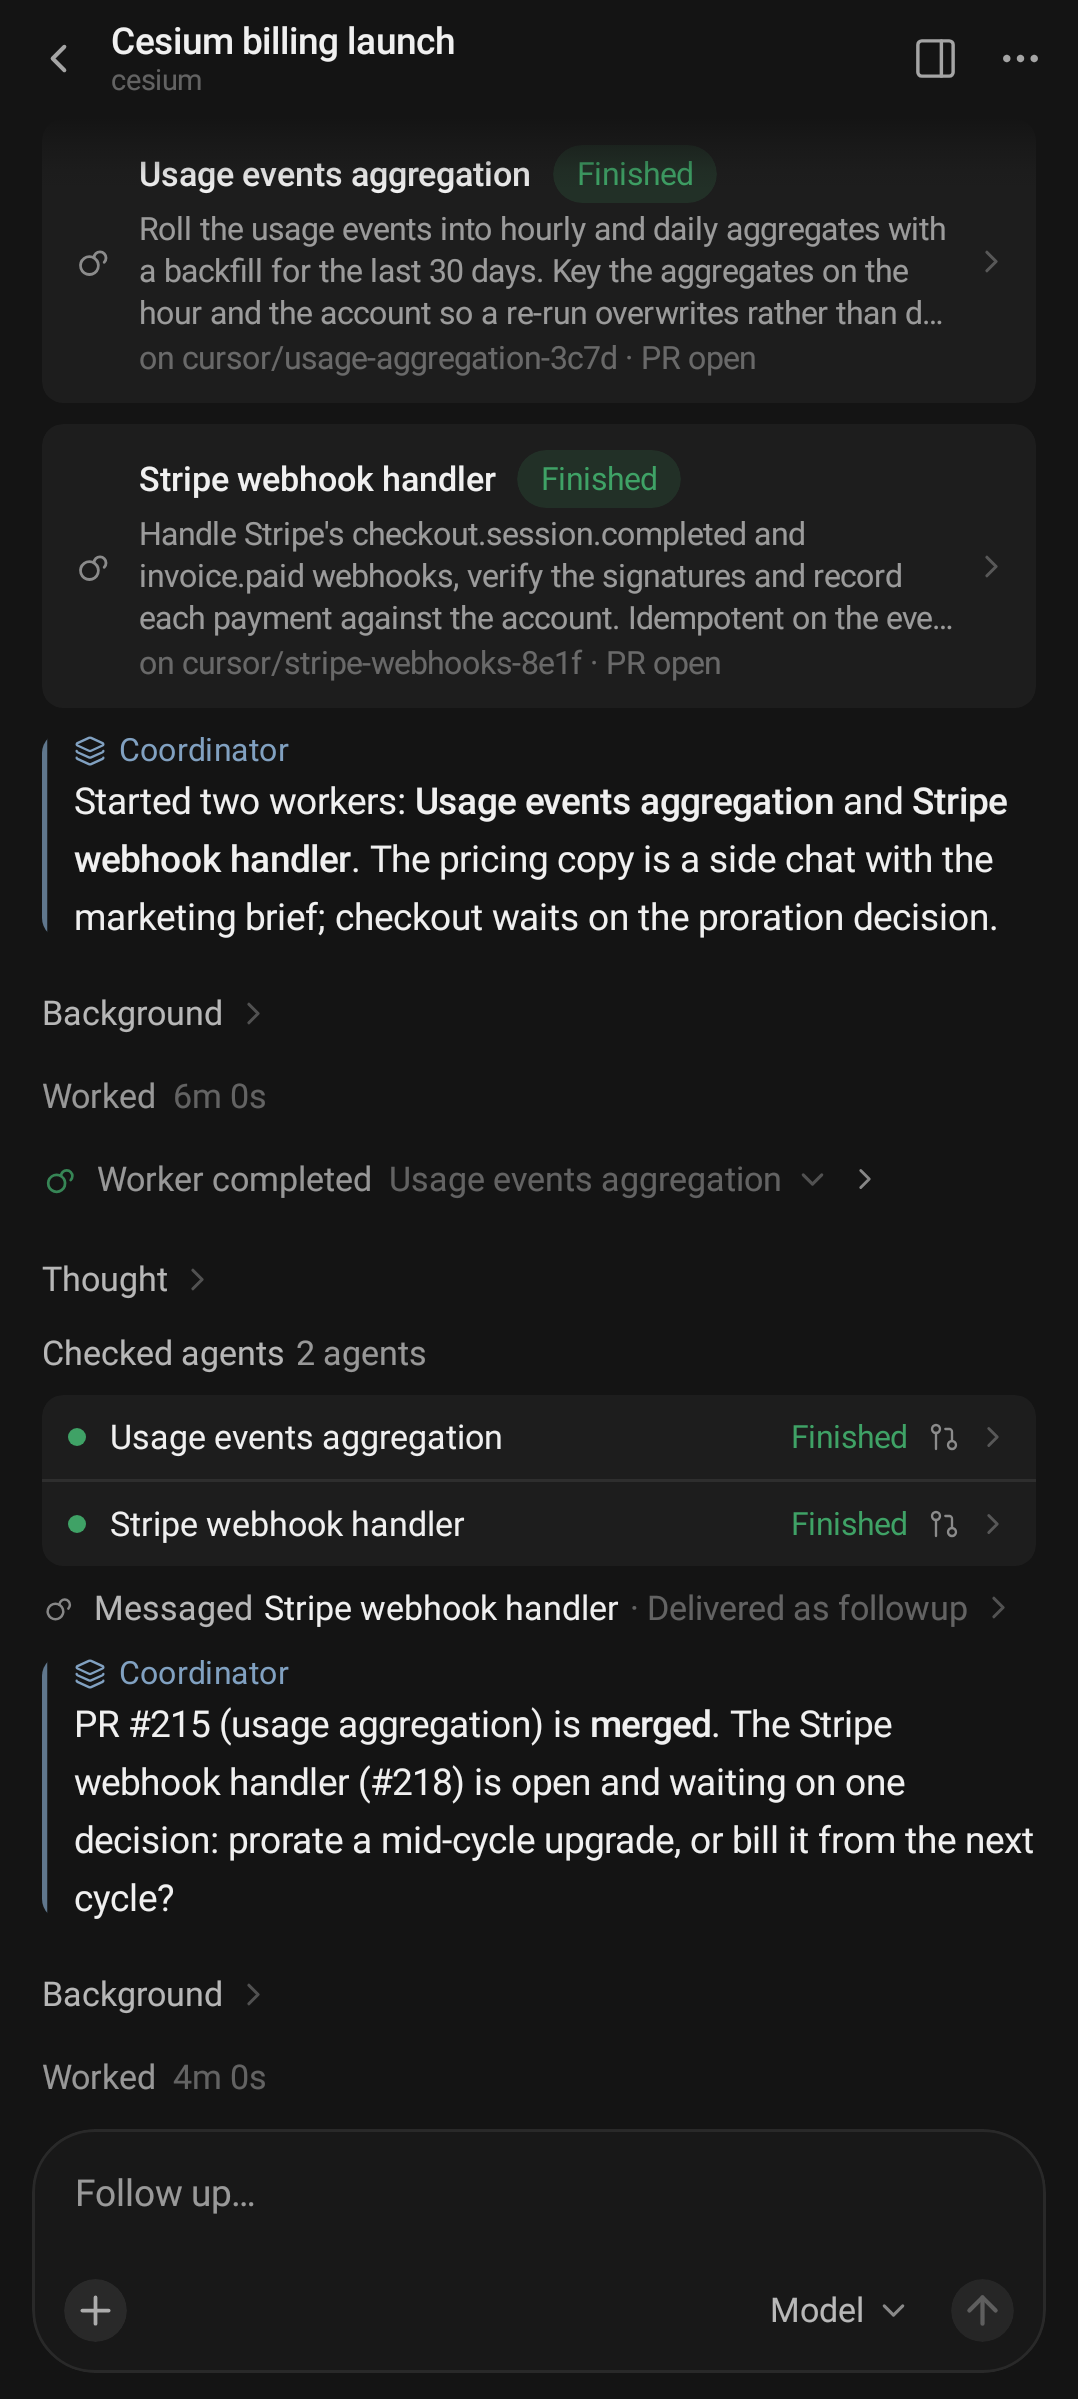
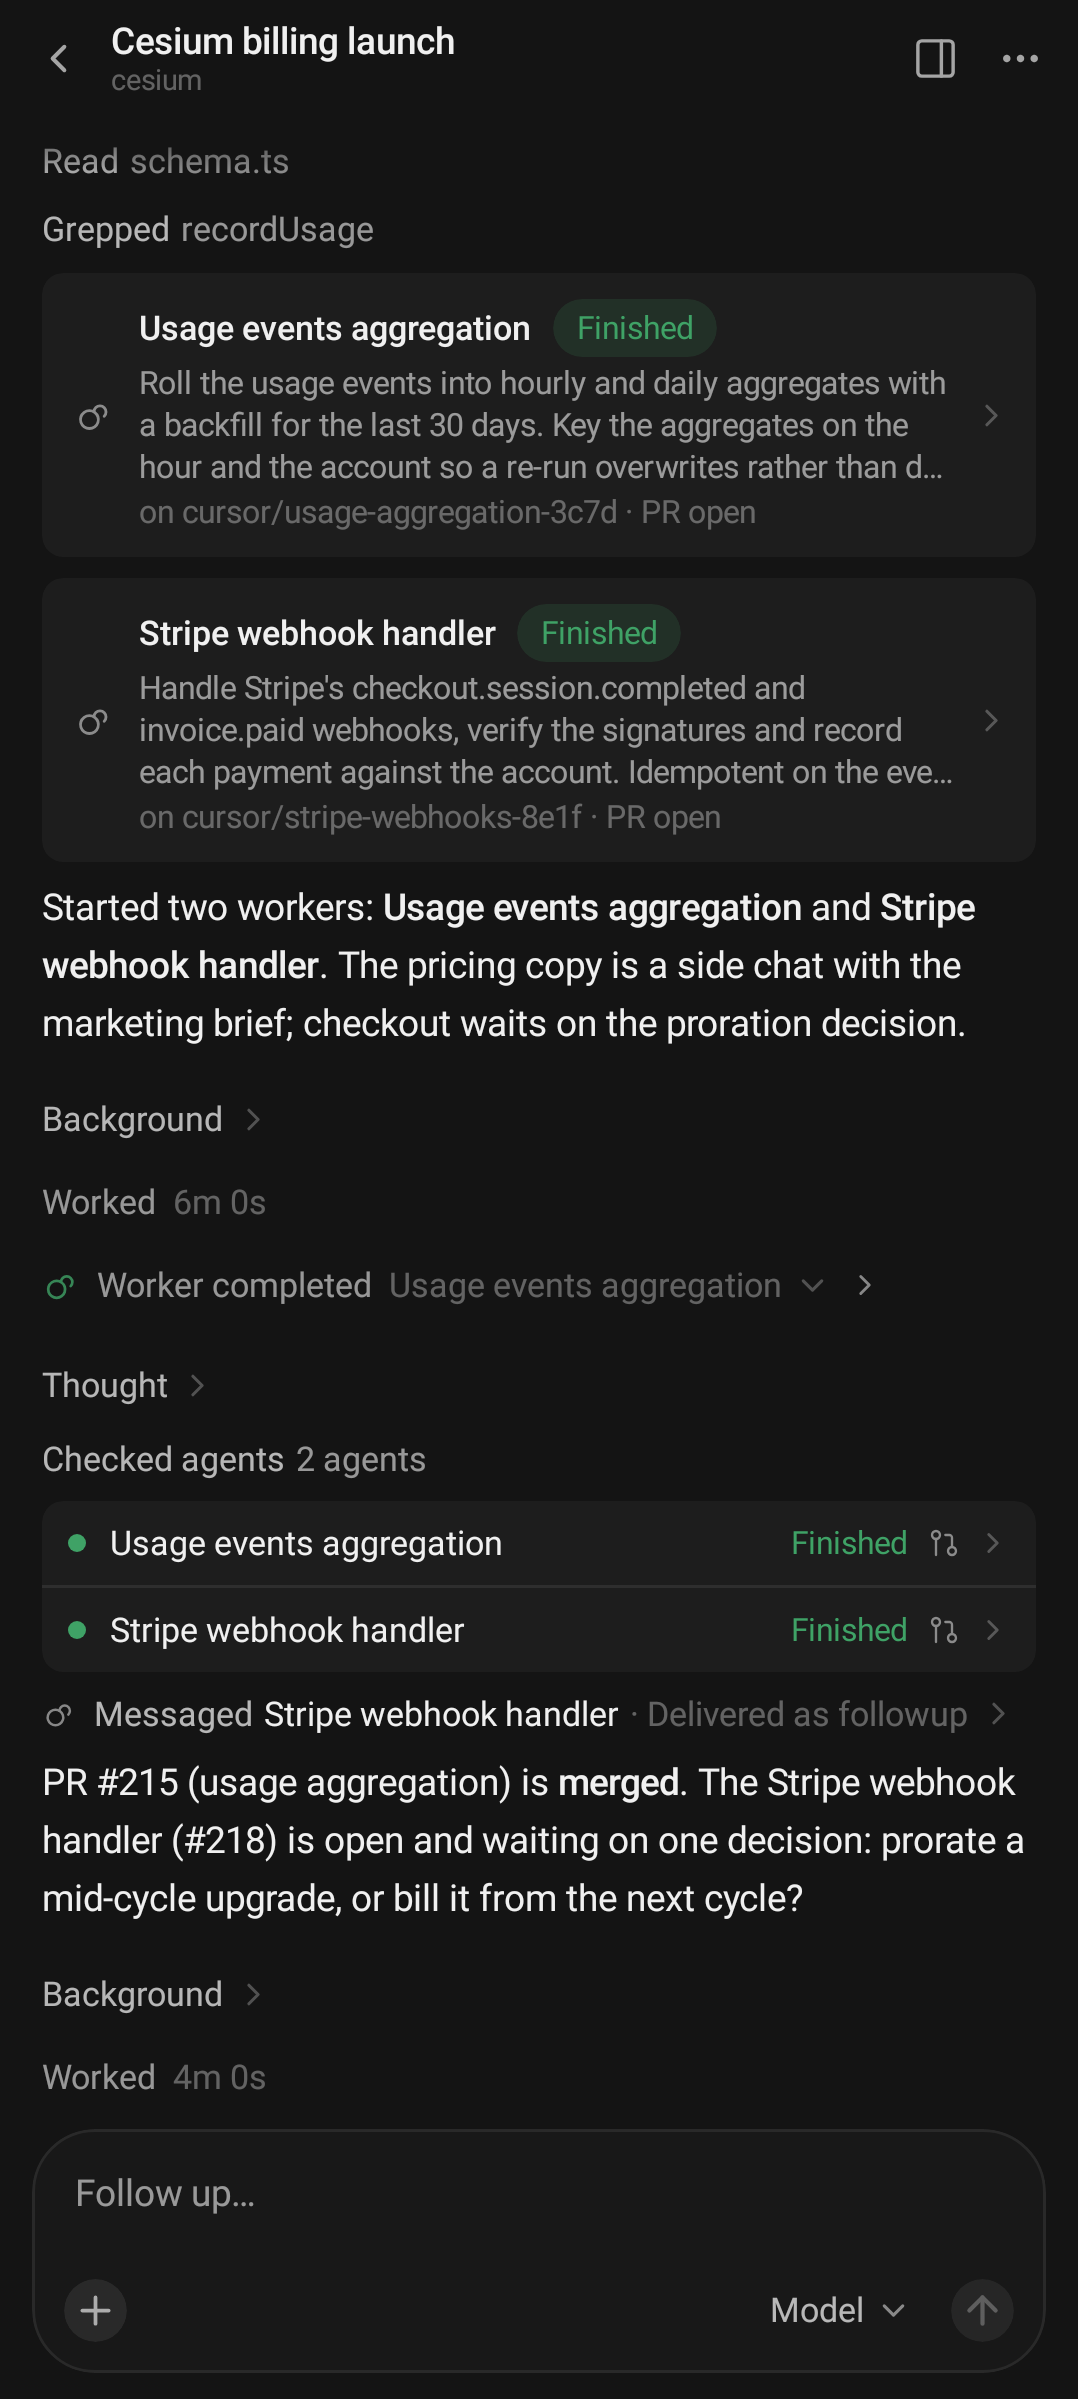
A coordinator's SendMessage update is a plain reply: no rule, no label, no glyph
In a Project's chat the coordinator's SendMessage updates are the replies, so they now read exactly as any
agent's reply does - the same prose, typography, spacing and markdown, through the one view both use - with
nothing to set them apart: the blue rule, the "Coordinator" label and the stack glyph are gone. A message whose
body did not reach the device still says so, dimmed, in the reply's place. Everything else stands: the notes
under Background, worker cards, status rows, the hidden instructions. Screenshots 39 and 61 re-recorded.

diff --git a/app/src/main/java/com/cursorforandroid/ui/conversation/CoordinatorContent.kt b/app/src/main/java/com/cursorforandroid/ui/conversation/CoordinatorContent.kt
@@ -25,9 +25,6 @@ import androidx.compose.runtime.setValue
 import androidx.compose.ui.Alignment
 import androidx.compose.ui.Modifier
 import androidx.compose.ui.draw.clip
-import androidx.compose.ui.draw.drawBehind
-import androidx.compose.ui.geometry.CornerRadius
-import androidx.compose.ui.geometry.Size
 import androidx.compose.ui.draw.rotate
 import androidx.compose.ui.graphics.Color
 import androidx.compose.ui.platform.testTag
@@ -35,7 +32,6 @@ import androidx.compose.ui.semantics.contentDescription
 import androidx.compose.ui.semantics.semantics
 import androidx.compose.ui.text.style.TextOverflow
 import androidx.compose.ui.unit.dp
-import androidx.compose.ui.unit.sp
 import com.cursorforandroid.domain.Agent
 import com.cursorforandroid.domain.RunStatus
 import com.cursorforandroid.domain.ToolCall
@@ -57,7 +53,7 @@ import com.cursorforandroid.ui.theme.CursorTheme
  * "Created agent", "Sent message" with nothing to open. Here each is first-class: a card per worker created, naming
  * it and saying where it stands (live, from the list's row, once the worker is loaded here) that opens its
  * conversation; a row per worker in a status check; a compact row for a message or a stop, opening onto the message;
- * and the coordinator's own words to the user as a message in its voice, set apart from an agent's reply.
+ * and the coordinator's own words to the user as a plain reply, exactly as any agent's reads.
  */
 @Composable
 internal fun CoordinatorStep(call: ToolCall, modifier: Modifier = Modifier): Boolean {
@@ -301,50 +297,24 @@ internal fun WorkerActionRow(call: ToolCall, action: ToolPayload.WorkerAction, m
 }
 
 /**
- * The coordinator speaking to the user (`send_to_user`), in a voice of its own: not a reply's bare prose and not the
- * user's bubble, but a message set behind a coloured rule with "Coordinator" over it, so a Project's transcript
- * tells the coordinator's words from a worker's report and from the agent's own thinking aloud. Press and hold for
- * the same actions as any message.
+ * The coordinator speaking to the user through `SendMessage` (or the older `send_to_user`): its reply, and so shown
+ * exactly as any agent's reply is — the same prose, typography, spacing and markdown as [ReplyMessage], with no
+ * rule, label or glyph to set it apart. In a Project's chat the coordinator's own words *are* the replies; what it
+ * writes between tool calls is folded under "Background". Press and hold for the same actions as any message.
  */
 @Composable
 internal fun CoordinatorMessageView(call: ToolCall, payload: ToolPayload.CoordinatorMessage, modifier: Modifier = Modifier) {
     val colors = CursorTheme.colors
-    val type = CursorTheme.typography
-    val accent = colors.blue
-    // A message whose body this copy lacks (the stream left it out, or an earlier build did): the row says so in
-    // the coordinator's voice rather than standing bare, until the turn is asked for again.
-    val body = payload.message.trim().ifEmpty { if (payload.missing) MISSING_MESSAGE else "" }
-    MessageActions(text = payload.message, enabled = payload.message.isNotBlank(), modifier = modifier.fillMaxWidth().clip(CursorTheme.shapes.lg)) {
-        // The rule is drawn, not laid out: the message's blocks measure by subcomposition, which an intrinsic
-        // height cannot read, so a bar sized to the column's height is painted behind it instead.
-        val bar = accent.copy(alpha = 0.7f)
-        Column(
-            Modifier
-                .fillMaxWidth()
-                .testTag("coordinator-message")
-                .drawBehind {
-                    val width = 2.dp.toPx()
-                    drawRoundRect(bar, size = Size(width, size.height), cornerRadius = CornerRadius(width, width))
-                }
-                .padding(start = 12.dp),
-            verticalArrangement = Arrangement.spacedBy(4.dp),
-        ) {
-            Row(verticalAlignment = Alignment.CenterVertically) {
-                Icon(CursorIcons.Layers, null, tint = accent, modifier = Modifier.size(12.dp))
-                Spacer(Modifier.width(5.dp))
-                Text("Coordinator", style = type.small.copy(letterSpacing = 0.2.sp), color = accent, maxLines = 1)
-                if (call.isRunning) {
-                    Spacer(Modifier.width(6.dp))
-                    ShimmerText("sending", style = type.small, color = colors.textQuaternary, active = true, maxLines = 1)
-                }
-            }
-            if (payload.missing && payload.message.isBlank()) {
-                Text(body, style = type.base, color = colors.textTertiary, modifier = Modifier.testTag("coordinator-message-missing"))
-            } else {
-                MarkdownText(body, style = type.message, color = colors.textPrimary)
-            }
-        }
-    }
+    // A message whose body this copy lacks (the stream left it out, or an earlier build did) says so, dimmed,
+    // rather than standing bare, until the turn is asked for again.
+    val missing = payload.missing && payload.message.isBlank()
+    ReplyMessage(
+        markdown = if (missing) MISSING_MESSAGE else payload.message,
+        isStreaming = call.isRunning,
+        modifier = modifier.testTag(if (missing) "coordinator-message-missing" else "coordinator-message"),
+        text = payload.message,
+        color = if (missing) colors.textTertiary else colors.textPrimary,
+    )
 }
 
 /** What a coordinator's message row says when the body did not reach this device. */

diff --git a/app/src/test/java/com/cursorforandroid/ui/conversation/CoordinatorContentTest.kt b/app/src/test/java/com/cursorforandroid/ui/conversation/CoordinatorContentTest.kt
@@ -38,7 +38,7 @@ import org.robolectric.annotation.GraphicsMode
 /**
  * A Project coordinator's transcript as first-class items: a card per worker created — the list's live name and
  * state, a way to its chat — status rows per worker checked on, compact rows for a message or a stop, the
- * coordinator's own words to the user set apart, and a worker's completion notice opening the worker's chat.
+ * coordinator's own words to the user as a plain reply, and a worker's completion notice opening the worker's chat.
  */
 @RunWith(AndroidJUnit4::class)
 @GraphicsMode(GraphicsMode.Mode.NATIVE)
@@ -198,13 +198,13 @@ class CoordinatorContentTest {
     }
 
     @Test
-    fun `the coordinator's words to the user are set apart from a reply`() {
+    fun `the coordinator's words to the user read as a plain reply, with nothing to set them apart`() {
         val said = ToolCall("k5", "send_to_user", ToolKind.Coordinator, "completed", "PR #215 is merged.", payload = ToolPayload.CoordinatorMessage("PR #215 is **merged**. One decision is open."))
         show(ActivityGroup("g", listOf(said)))
-        // The message's press-and-hold merges its semantics; the tag is on the column inside.
         compose.onNodeWithTag("coordinator-message", useUnmergedTree = true).assertIsDisplayed()
-        compose.onNodeWithText("Coordinator").assertIsDisplayed()
         compose.onNodeWithText("One decision is open.", substring = true).assertIsDisplayed()
+        // No label, no rule, no glyph: the message is the reply, as an agent's is.
+        assertThat(compose.onAllNodesWithText("Coordinator").fetchSemanticsNodes()).isEmpty()
         assertThat(compose.onAllNodesWithText("Sent message", substring = true).fetchSemanticsNodes()).isEmpty()
     }
 
@@ -228,13 +228,12 @@ class CoordinatorContentTest {
     }
 
     @Test
-    fun `a coordinator's message whose body did not reach the device says so, in the coordinator's voice`() {
+    fun `a coordinator's message whose body did not reach the device says so, dimmed, in the reply's place`() {
         val missing = ToolCall("k6", "SendMessage", ToolKind.Coordinator, "completed", "", payload = ToolPayload.CoordinatorMessage("", missing = true))
         show(ActivityGroup("g", listOf(missing)))
-        compose.onNodeWithTag("coordinator-message", useUnmergedTree = true).assertIsDisplayed()
-        compose.onNodeWithText("Coordinator").assertIsDisplayed()
         compose.onNodeWithTag("coordinator-message-missing", useUnmergedTree = true).assertIsDisplayed()
         compose.onNodeWithText(MISSING_MESSAGE).assertIsDisplayed()
+        assertThat(compose.onAllNodesWithText("Coordinator").fetchSemanticsNodes()).isEmpty()
         assertThat(compose.onAllNodesWithText("Sent message", substring = true).fetchSemanticsNodes()).isEmpty()
     }
 

diff --git a/app/src/main/java/com/cursorforandroid/ui/conversation/TimelineItems.kt b/app/src/main/java/com/cursorforandroid/ui/conversation/TimelineItems.kt
@@ -150,11 +150,28 @@ private fun AssistantMessageView(item: AssistantMessage, modifier: Modifier) {
         BackgroundMessage(item, modifier)
         return
     }
+    ReplyMessage(item.markdown, isStreaming = item.isStreaming, modifier = modifier)
+}
+
+/**
+ * The agent's reply as the transcript shows one: bare prose, no surface of its own. The same view renders a
+ * Project coordinator's `SendMessage` update (see `CoordinatorMessageView`), which is the coordinator's reply and
+ * reads exactly like any agent's. [color] is the prose's colour; [text] is what press-and-hold copies.
+ */
+@Composable
+internal fun ReplyMessage(
+    markdown: String,
+    isStreaming: Boolean,
+    modifier: Modifier = Modifier,
+    text: String = markdown,
+    color: Color = CursorTheme.colors.textPrimary,
+) {
     MessageActions(
-        text = item.markdown,
+        text = text,
+        enabled = text.isNotBlank(),
         modifier = modifier.fillMaxWidth().bleed(horizontal = 6.dp, vertical = 4.dp).clip(CursorTheme.shapes.lg),
     ) {
-        MarkdownText(item.markdown, Modifier.fillMaxWidth().padding(horizontal = 6.dp, vertical = 4.dp), streaming = item.isStreaming)
+        MarkdownText(markdown, Modifier.fillMaxWidth().padding(horizontal = 6.dp, vertical = 4.dp), color = color, streaming = isStreaming)
     }
 }
 

diff --git a/app/src/test/java/com/cursorforandroid/screenshots/CoordinatorTranscriptScreenshotTest.kt b/app/src/test/java/com/cursorforandroid/screenshots/CoordinatorTranscriptScreenshotTest.kt
@@ -52,7 +52,7 @@ import java.io.File
  * turn Cursor injected when a subagent finished — its instruction to the model hidden, the coordinator's brief remark
  * folded under the row — then the turn of the reference frame replayed from the documented stream's frames: the
  * coordinator's notes under "Background", its message to a worker as a row, and its `SendMessage` updates as the
- * messages, read off `args.text.content`. The chat is read as a coordinator's from this content alone; no list row
+ * messages — plain replies, read off `args.text.content`, with nothing to set them apart from an agent's. The chat is read as a coordinator's from this content alone; no list row
  * says so. Written to `screenshots/` beside the walkthrough and compared pixel for pixel in CI.
  */
 @RunWith(AndroidJUnit4::class)
@@ -126,7 +126,7 @@ class CoordinatorTranscriptScreenshotTest {
                 }
             }
         }
-        compose.waitUntil(10_000) { compose.onAllNodesWithText("Coordinator").fetchSemanticsNodes().size >= 2 }
+        compose.waitUntil(10_000) { compose.onAllNodesWithText("PR #215 is merged.").fetchSemanticsNodes().isNotEmpty() }
         capture("61_coordinator_transcript_live_shape")
     }
 }

diff --git a/app/src/test/java/com/cursorforandroid/screenshots/AppScreenshotTest.kt b/app/src/test/java/com/cursorforandroid/screenshots/AppScreenshotTest.kt
@@ -453,10 +453,11 @@ class AppScreenshotTest {
         // created (a card each), the status check, its message to a worker, its own words to the user, and the
         // worker's completion notice that started the turn.
         compose.onNodeWithText("Plans the work and delegates it", substring = true).performClick()
-        waitForText("Coordinator", 30_000)
+        // The coordinator's SendMessage update reads as a plain reply: its own text is what says the chat is open.
+        waitForText("PR #215 (usage aggregation) is", 30_000)
         compose.waitUntil(30_000) { graph.conversations.state(DemoData.PROJECT_ID).value.items.count { it is ActivityGroup } >= 2 }
         // The earlier turn's worker cards sit above the current turn; bring the first of them into the frame.
-        compose.onAllNodes(hasScrollToNodeAction() and hasAnyDescendant(hasText("Coordinator"))).onFirst().performScrollToNode(hasTestTag("worker-card"))
+        compose.onAllNodes(hasScrollToNodeAction() and hasAnyDescendant(hasTestTag("worker-action"))).onFirst().performScrollToNode(hasTestTag("worker-card"))
         compose.waitForIdle()
         capture("39_project_coordinator_transcript")
         Espresso.pressBack()
